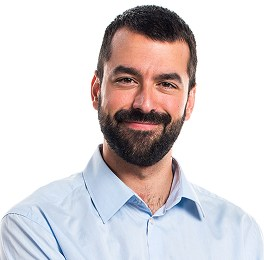
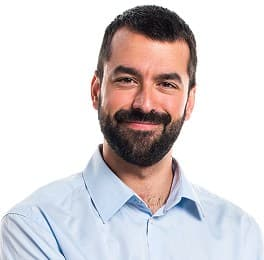
images from sqoosh

diff --git a/index.html b/index.html
@@ -116,7 +116,7 @@
             <p>App</p>
           </li>
           <li>
-            <img src="images/cashless_payment.png" alt="Banking App" width="360" height="300">
+            <img src="images/cashless_payment.jpg" alt="Banking App" width="360" height="300">
             <h3>Cashless Payment</h3>
             <p>Marketing</p>
           </li>
